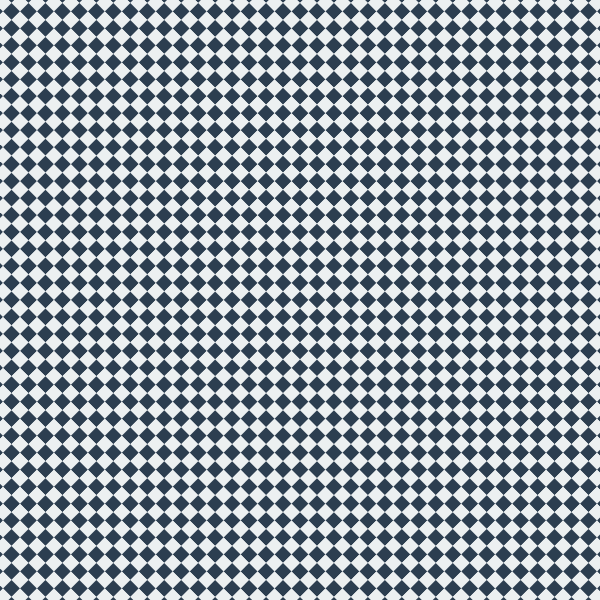
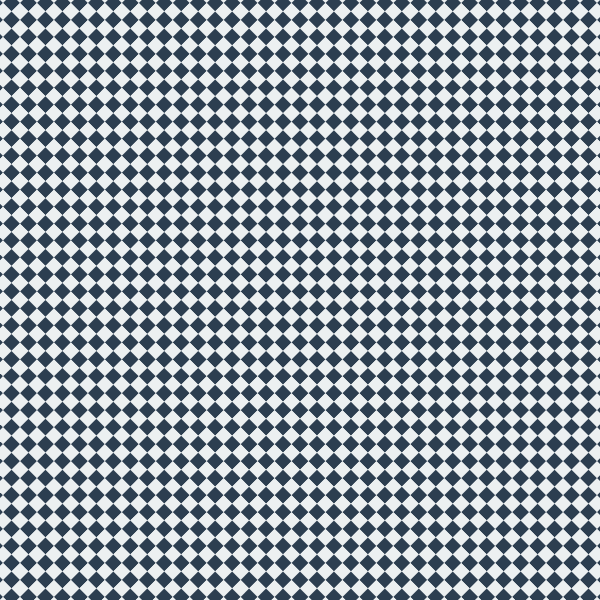
fix: pattern diagonal coverage — tiles now fill entire canvas
All diagonal-based renderers computed iteration count as
Math.ceil(diagonal / unit) but drew from -diagonal to +diagonal
(a span of 2*diagonal). Fixed to Math.ceil((2 * diagonal) / unit)
across checker and stripe layers. Re-rendered affected example PNGs.

diff --git a/src/layers/checker.ts b/src/layers/checker.ts
@@ -112,8 +112,8 @@ export const checkerLayerType: LayerTypeDefinition = {
     const cx = bounds.x + bounds.width / 2;
     const cy = bounds.y + bounds.height / 2;
     const diagonal = Math.sqrt(bounds.width * bounds.width + bounds.height * bounds.height);
-    const cols = Math.ceil(diagonal / cellSize) + 2;
-    const rows = Math.ceil(diagonal / cellSize) + 2;
+    const cols = Math.ceil((2 * diagonal) / cellSize) + 2;
+    const rows = Math.ceil((2 * diagonal) / cellSize) + 2;
 
     ctx.save();
     ctx.translate(cx, cy);

diff --git a/src/layers/stripe.ts b/src/layers/stripe.ts
@@ -138,7 +138,7 @@ export const stripeLayerType: LayerTypeDefinition = {
     const cy = bounds.y + bounds.height / 2;
     const diagonal = Math.sqrt(bounds.width * bounds.width + bounds.height * bounds.height);
     const bandWidth = lineWidth + spacing;
-    const totalBands = Math.ceil(diagonal / bandWidth) + 2;
+    const totalBands = Math.ceil((2 * diagonal) / bandWidth) + 2;
     const startOffset = -(totalBands / 2) * bandWidth;
 
     ctx.save();
